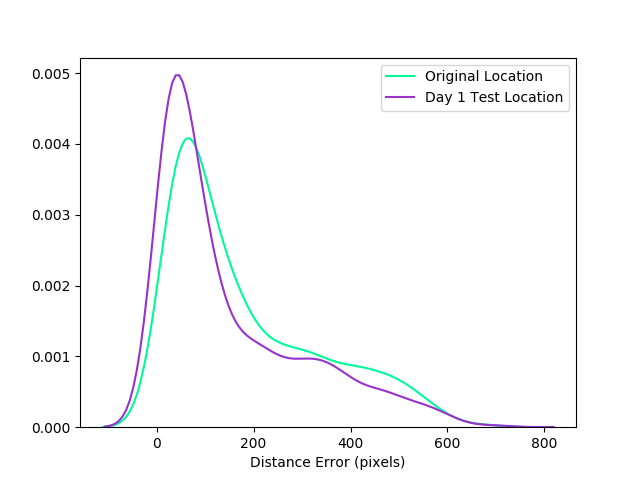
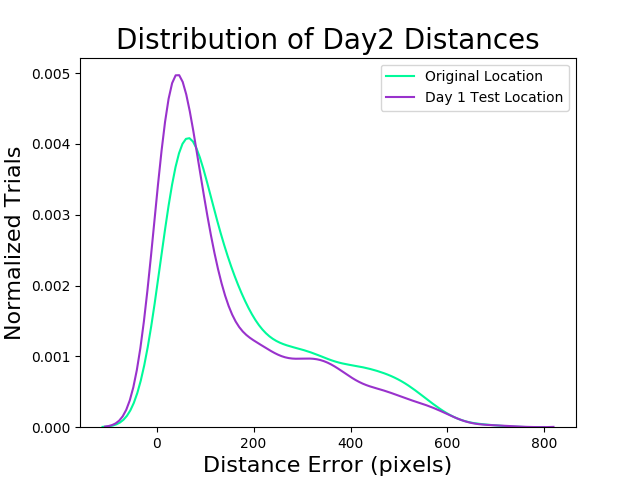
edited react figs

Changed region(s): [[0.1875, 0.0625, 0.8438, 0.125], [0.3125, 0.9375, 0.7188, 1.0], [0.0, 0.3125, 0.0312, 0.7188]]

diff --git a/react/react_figs.py b/react/react_figs.py
@@ -9,7 +9,9 @@ def make_layered_hist(array, condlist, condDay, colorlist, condlabels):
     for cond, color, label in zip(condlist, colorlist, condlabels):
         kde=sns.kdeplot(array[cond], ax=ax, label=label, color=color)
         ax.legend()
-        ax.set_xlabel('Distance Error (pixels)')
+        ax.set_xlabel('Distance Error (pixels)', fontsize=16)
     kde=kde.get_figure()
+    ax.set_ylabel('Normalized Trials', fontsize=16)
+    plt.title('Distribution of ' +condDay + ' Distances', fontsize=20)
     kde.savefig('figs/react_kde' + condDay + '.png')
     plt.clf()
